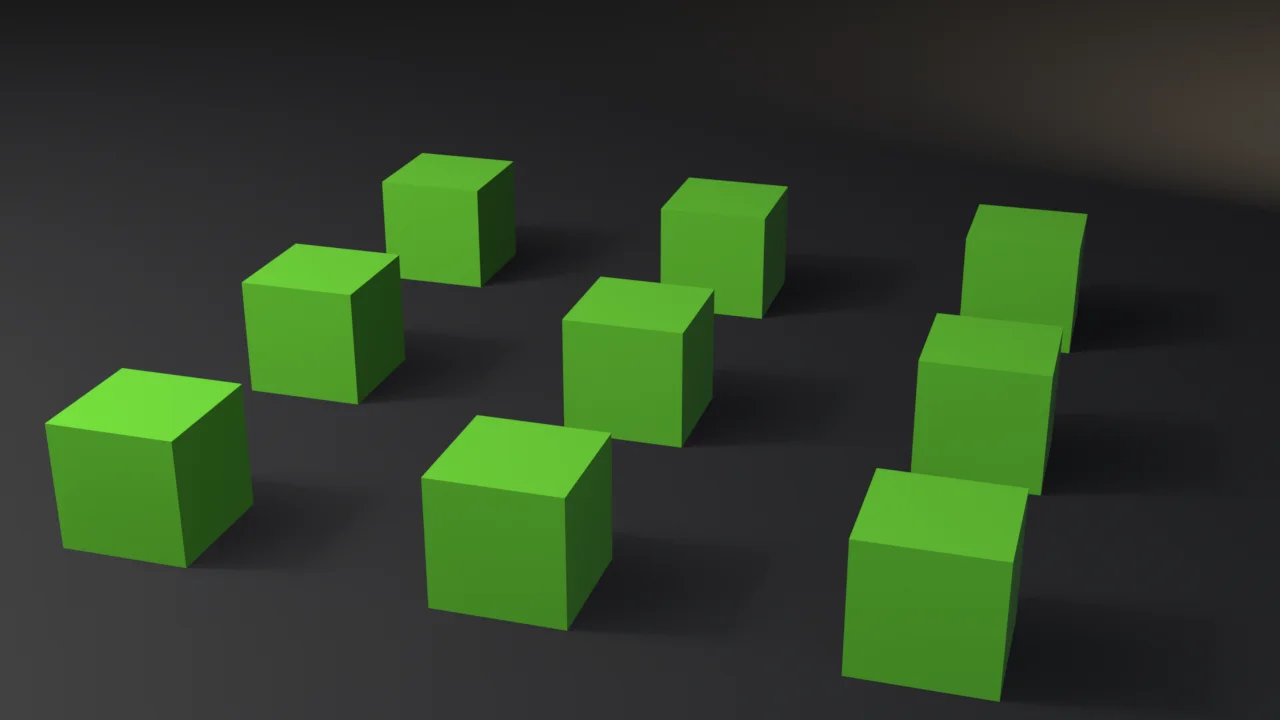
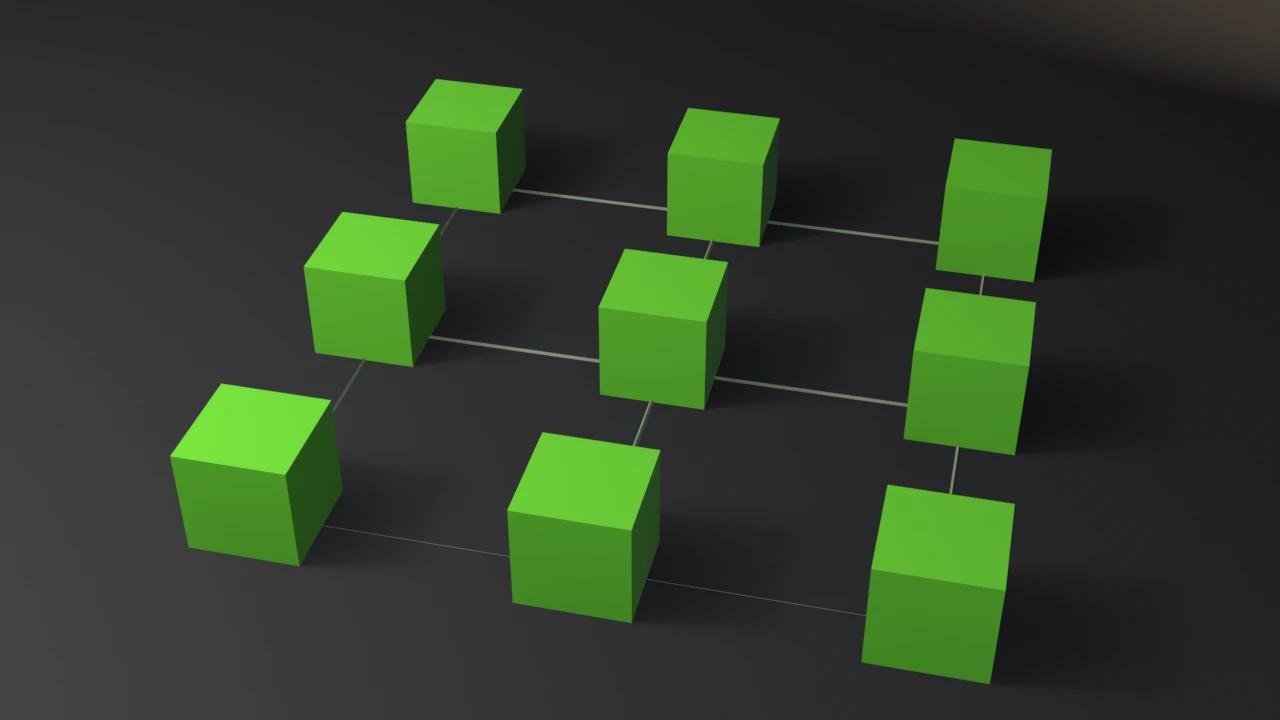
fix(examples): gn-instance-grid still shows the source lattice under its instances
Render path only. The check, its assertions and exit codes are unchanged.

Changed region(s): [[0.3125, 0.1528, 0.875, 0.9778], [0.0312, 0.0917, 0.4375, 0.7944], [0.8125, 0.0917, 1.0, 0.275]]

diff --git a/docs/gallery/gn-instance-grid/index.html b/docs/gallery/gn-instance-grid/index.html
@@ -16,13 +16,13 @@
   <meta property="og:image" content="https://tmhsdigital.github.io/Blender-Developer-Tools/gallery/assets/gn-instance-grid-hero.webp" />
   <meta property="og:image:width" content="1280" />
   <meta property="og:image:height" content="720" />
-  <meta property="og:image:alt" content="A three-by-three grid of green instanced cubes on a dark floor." />
+  <meta property="og:image:alt" content="A three-by-three grid of green instanced cubes, each sitting on a node of a faint source-grid lattice on a dark floor." />
   <meta property="og:site_name" content="Blender Developer Tools" />
   <meta name="twitter:card" content="summary_large_image" />
   <meta name="twitter:title" content="gn-instance-grid — Examples — Blender Developer Tools" />
   <meta name="twitter:description" content="A generative Geometry Nodes tree — Mesh Grid → Instance on Points → Realize Instances → Set Shade Smooth — attached as a NODES modifier with no Group Input geometry." />
   <meta name="twitter:image" content="https://tmhsdigital.github.io/Blender-Developer-Tools/gallery/assets/gn-instance-grid-hero.webp" />
-  <meta name="twitter:image:alt" content="A three-by-three grid of green instanced cubes on a dark floor." />
+  <meta name="twitter:image:alt" content="A three-by-three grid of green instanced cubes, each sitting on a node of a faint source-grid lattice on a dark floor." />
   <style>
     /* fonts are deployed by the landing build (docs/fonts/) */
     @font-face { font-family: 'Barlow Condensed'; font-weight: 600; font-display: swap;
@@ -268,8 +268,8 @@
     <p>A generative Geometry Nodes tree — Mesh Grid → Instance on Points → Realize Instances → Set Shade Smooth — attached as a NODES modifier with no Group Input geometry.</p>
   </header>
   <main id="main">
-    <button class="detail-hero" id="heroZoom" type="button" aria-label="View full size: A three-by-three grid of green instanced cubes on a dark floor.">
-      <img src="../assets/gn-instance-grid-hero.webp" alt="A three-by-three grid of green instanced cubes on a dark floor." width="1280" height="720" />
+    <button class="detail-hero" id="heroZoom" type="button" aria-label="View full size: A three-by-three grid of green instanced cubes, each sitting on a node of a faint source-grid lattice on a dark floor.">
+      <img src="../assets/gn-instance-grid-hero.webp" alt="A three-by-three grid of green instanced cubes, each sitting on a node of a faint source-grid lattice on a dark floor." width="1280" height="720" />
     </button>
     <p class="zoom-hint">Rendered headless by the example itself — click to zoom.</p>
     <div class="callout"><span class="tag">witnesses</span> Realized instances produce closed-form topology (72 verts, 54 faces), Set Material carries Lime, and the corner instance center sits at its closed-form grid coordinate.</div>
@@ -490,8 +490,33 @@ CORNER_CENTER = (GRID_HALF, GRID_HALF, CUBE_SIZE / <span class="n">2</span>)
     <span class="c"># tip the grid so depth reads; cubes already rest on the floor via the tree</span>
     obj.rotation_euler = (<span class="n">0.0</span>, <span class="n">0.0</span>, math.radians(<span class="n">24</span>))
 
+    <span class="c"># The source Mesh Grid drawn as a faint lattice on the floor, turned with</span>
+    <span class="c"># the instances, so the still shows grid points in and one cube per</span>
+    <span class="c"># point out. Render-only: the same GRID_SIZE / GRID_X / GRID_Y the tree</span>
+    <span class="c"># uses, as a wireframe 1 mm above the floor.</span>
+    lat_me = bpy.data.meshes.new(<span class="s">&quot;Lattice&quot;</span>)
+    lbm = bmesh.new()
+    <span class="k">try</span>:
+        bmesh.ops.create_grid(lbm, x_segments=GRID_X - <span class="n">1</span>, y_segments=GRID_Y - <span class="n">1</span>,
+                              size=GRID_HALF)
+        lbm.to_mesh(lat_me)
+    <span class="k">finally</span>:
+        lbm.free()
+    lat_mat = bpy.data.materials.new(<span class="s">&quot;Lattice&quot;</span>)
+    lat_mat.use_nodes = <span class="k">True</span>
+    lb = lat_mat.node_tree.nodes[<span class="s">&quot;Principled BSDF&quot;</span>]
+    lb.inputs[<span class="s">&quot;Base Color&quot;</span>].default_value = (<span class="n">0.30</span>, <span class="n">0.42</span>, <span class="n">0.26</span>, <span class="n">1.0</span>)
+    lb.inputs[<span class="s">&quot;Roughness&quot;</span>].default_value = <span class="n">0.6</span>
+    lat_me.materials.append(lat_mat)
+    lattice = bpy.data.objects.new(<span class="s">&quot;Lattice&quot;</span>, lat_me)
+    lattice.location = (<span class="n">0.0</span>, <span class="n">0.0</span>, <span class="n">0.001</span>)
+    lattice.rotation_euler = obj.rotation_euler
+    wire = lattice.modifiers.new(<span class="s">&quot;lattice&quot;</span>, <span class="s">&quot;WIREFRAME&quot;</span>)
+    wire.thickness = <span class="n">0.018</span>
+    scene.collection.objects.link(lattice)
+
     aim = bpy.data.objects.new(<span class="s">&quot;Aim&quot;</span>, <span class="k">None</span>)
-    aim.location = (<span class="n">0.0</span>, <span class="n">0.0</span>, CUBE_SIZE / <span class="n">2</span>)
+    aim.location = (-<span class="n">0.12</span>, <span class="n">0.0</span>, <span class="n">0.0</span>)
     scene.collection.objects.link(aim)
 
     <span class="k">def</span> light(name, loc, energy, size, col):
@@ -523,7 +548,9 @@ CORNER_CENTER = (GRID_HALF, GRID_HALF, CUBE_SIZE / <span class="n">2</span>)
     cam_data = bpy.data.cameras.new(<span class="s">&quot;Cam&quot;</span>)
     cam_data.lens = <span class="n">50.0</span>
     cam = bpy.data.objects.new(<span class="s">&quot;Cam&quot;</span>, cam_data)
-    cam.location = (<span class="n">3.7</span>, -<span class="n">4.3</span>, <span class="n">2.7</span>)
+    <span class="c"># Higher, so the 3 x 3 layout reads as a grid: from 2.7 m the perspective</span>
+    <span class="c"># scrambled the rows and the right column crowded the frame edge.</span>
+    cam.location = (<span class="n">3.4</span>, -<span class="n">4.6</span>, <span class="n">4.3</span>)
     scene.collection.objects.link(cam)
     scene.camera = cam
     track = cam.constraints.new(<span class="s">&#x27;TRACK_TO&#x27;</span>)
@@ -584,7 +611,7 @@ CORNER_CENTER = (GRID_HALF, GRID_HALF, CUBE_SIZE / <span class="n">2</span>)
   </main>
   <dialog class="lightbox" id="lightbox" aria-label="Full-size render">
     <button class="lightbox-close" type="button" autofocus>Close</button>
-    <img src="../assets/gn-instance-grid-hero.webp" alt="A three-by-three grid of green instanced cubes on a dark floor." />
+    <img src="../assets/gn-instance-grid-hero.webp" alt="A three-by-three grid of green instanced cubes, each sitting on a node of a faint source-grid lattice on a dark floor." />
   </dialog>
   <footer>
     <div class="statusbar">

diff --git a/examples/gn-instance-grid/gn_instance_grid.py b/examples/gn-instance-grid/gn_instance_grid.py
@@ -187,8 +187,33 @@ def render_still(obj, path, engine):
     # tip the grid so depth reads; cubes already rest on the floor via the tree
     obj.rotation_euler = (0.0, 0.0, math.radians(24))
 
+    # The source Mesh Grid drawn as a faint lattice on the floor, turned with
+    # the instances, so the still shows grid points in and one cube per
+    # point out. Render-only: the same GRID_SIZE / GRID_X / GRID_Y the tree
+    # uses, as a wireframe 1 mm above the floor.
+    lat_me = bpy.data.meshes.new("Lattice")
+    lbm = bmesh.new()
+    try:
+        bmesh.ops.create_grid(lbm, x_segments=GRID_X - 1, y_segments=GRID_Y - 1,
+                              size=GRID_HALF)
+        lbm.to_mesh(lat_me)
+    finally:
+        lbm.free()
+    lat_mat = bpy.data.materials.new("Lattice")
+    lat_mat.use_nodes = True
+    lb = lat_mat.node_tree.nodes["Principled BSDF"]
+    lb.inputs["Base Color"].default_value = (0.30, 0.42, 0.26, 1.0)
+    lb.inputs["Roughness"].default_value = 0.6
+    lat_me.materials.append(lat_mat)
+    lattice = bpy.data.objects.new("Lattice", lat_me)
+    lattice.location = (0.0, 0.0, 0.001)
+    lattice.rotation_euler = obj.rotation_euler
+    wire = lattice.modifiers.new("lattice", "WIREFRAME")
+    wire.thickness = 0.018
+    scene.collection.objects.link(lattice)
+
     aim = bpy.data.objects.new("Aim", None)
-    aim.location = (0.0, 0.0, CUBE_SIZE / 2)
+    aim.location = (-0.12, 0.0, 0.0)
     scene.collection.objects.link(aim)
 
     def light(name, loc, energy, size, col):
@@ -220,7 +245,9 @@ def render_still(obj, path, engine):
     cam_data = bpy.data.cameras.new("Cam")
     cam_data.lens = 50.0
     cam = bpy.data.objects.new("Cam", cam_data)
-    cam.location = (3.7, -4.3, 2.7)
+    # Higher, so the 3 x 3 layout reads as a grid: from 2.7 m the perspective
+    # scrambled the rows and the right column crowded the frame edge.
+    cam.location = (3.4, -4.6, 4.3)
     scene.collection.objects.link(cam)
     scene.camera = cam
     track = cam.constraints.new('TRACK_TO')
